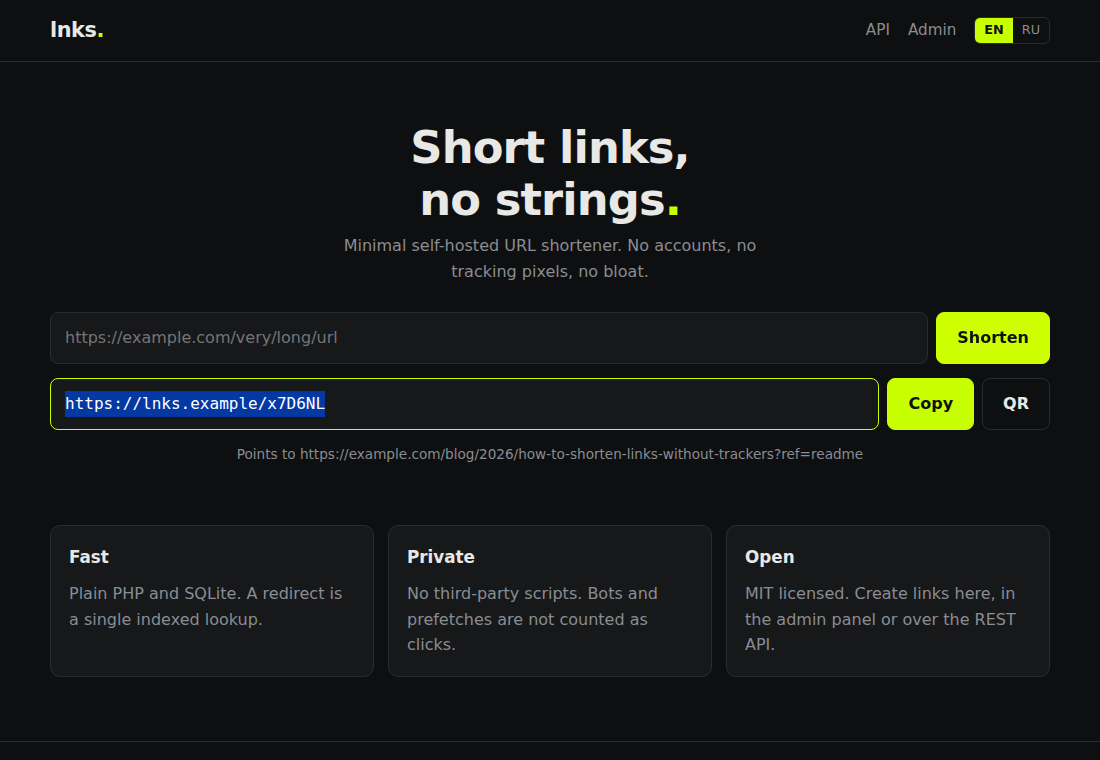
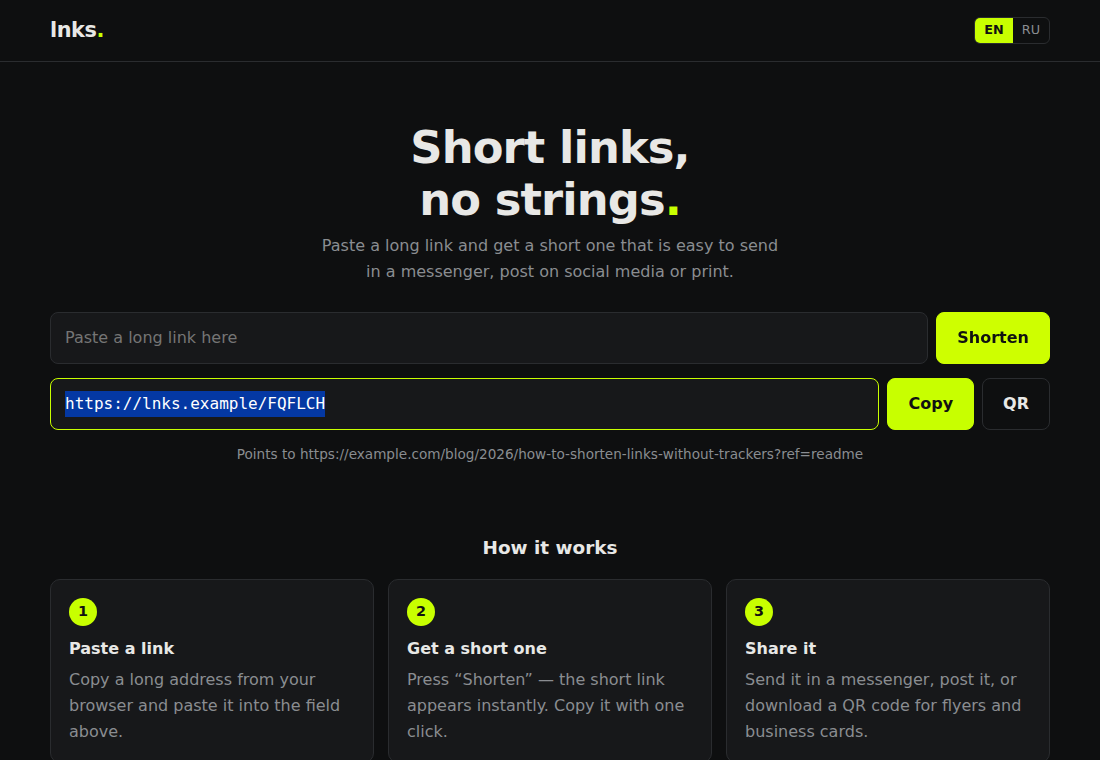
UI polish: visitor-friendly homepage, compact admin row toolbar
Homepage
- No API / admin links in the public header (language switch only); admin
  login moves to a quiet footer link
- Copy written for regular visitors: what the service does, 'paste a long
  link' placeholder, 'How it works' in three steps instead of developer
  feature cards; private-mode notice no longer mentions the API
- Footer support links de-emphasised (muted, accent on hover)

Admin
- Row actions are one row of icon buttons (stats, copy, QR, enable/disable,
  delete) with title + aria-label instead of three stacked text buttons;
  rows are much shorter
- Copy on an icon button keeps the icon and confirms via colour + tooltip
- Mobile cards: code, badge, title and destination form a left-aligned
  header; actions sit in a separated bottom row

Inline SVG icons use presentation attributes only, so the strict CSP stays.
Tests for both changes; README screenshots refreshed.

diff --git a/public/styles.css b/public/styles.css
@@ -69,7 +69,9 @@ ul.plain { list-style: none; margin: 0; padding: 0; display: grid; gap: 6px; }
 .nav a:hover { color: var(--text); text-decoration: none; }
 .site-footer { border-top: 1px solid var(--border); margin-top: 32px; }
 .footer-inner { flex-direction: column; gap: 6px; text-align: center; padding: 22px 20px; }
-.footer-links { display: flex; gap: 6px 18px; flex-wrap: wrap; justify-content: center; font-size: 0.92rem; }
+.footer-links { display: flex; gap: 6px 18px; flex-wrap: wrap; justify-content: center; font-size: 0.88rem; }
+.footer-links a, .site-footer p a { color: var(--muted); }
+.footer-links a:hover, .site-footer p a:hover { color: var(--accent); }
 .footer-inner p { margin: 0; }
 
 /* Language switcher */
@@ -90,6 +92,13 @@ ul.plain { list-style: none; margin: 0; padding: 0; display: grid; gap: 6px; }
 .row-actions { display: flex; align-items: center; gap: 8px; }
 
 .card { background: var(--surface); border: 1px solid var(--border); border-radius: var(--radius); padding: 18px; margin: 0 0 16px; }
+.how { margin-top: 48px; }
+.how h2 { text-align: center; font-size: 1.15rem; margin-bottom: 16px; }
+.steps { list-style: none; margin: 0; padding: 0; display: grid; grid-template-columns: repeat(auto-fit, minmax(220px, 1fr)); gap: 14px; }
+.steps .card { margin: 0; }
+.steps h3 { font-size: 1rem; margin: 10px 0 6px; }
+.steps p { margin: 0; }
+.step-n { display: inline-flex; align-items: center; justify-content: center; width: 28px; height: 28px; border-radius: 50%; background: var(--accent); color: var(--on-accent); font-weight: 700; font-size: 0.9rem; }
 .features { display: grid; grid-template-columns: repeat(auto-fit, minmax(220px, 1fr)); gap: 14px; margin-top: 40px; text-align: left; }
 .features .card { margin: 0; }
 .features p { margin: 0; }
@@ -192,8 +201,20 @@ td.num .n { margin-right: 8px; }
 td.empty { padding: 28px; }
 td.url { max-width: 230px; }
 a.code { font-family: ui-monospace, SFMono-Regular, Menlo, monospace; font-weight: 600; }
-td.actions { width: 1%; }
-td.actions form { display: flex; flex-wrap: wrap; gap: 6px; margin: 0; justify-content: flex-end; min-width: 150px; }
+td.actions { width: 1%; white-space: nowrap; }
+tr.disabled td.actions { opacity: 1; }
+.icon-bar { display: flex; gap: 4px; justify-content: flex-end; margin: 0; }
+.ibtn {
+    display: inline-flex; align-items: center; justify-content: center;
+    width: 34px; height: 34px; padding: 0;
+    background: transparent; border: 1px solid var(--border); border-radius: 8px;
+    color: var(--muted); cursor: pointer;
+}
+.ibtn:hover, .ibtn:focus-visible { color: var(--accent); border-color: var(--accent); text-decoration: none; }
+.ibtn.danger:hover, .ibtn.danger:focus-visible { color: var(--danger); border-color: var(--danger); }
+.ibtn.ok { color: var(--ok); border-color: var(--ok); }
+.ibtn.fail { color: var(--danger); border-color: var(--danger); }
+.ibtn svg { display: block; }
 .plain-table.refs td:last-child { width: 80px; }
 
 /* Charts */
@@ -258,6 +279,13 @@ td.code { font-family: ui-monospace, SFMono-Regular, Menlo, monospace; }
     table.links td { border: 0; padding: 6px 14px; display: flex; justify-content: space-between; gap: 12px; text-align: right; }
     table.links td[data-label]::before { content: attr(data-label); color: var(--muted); text-align: left; flex: none; }
     table.links td.url { max-width: none; }
+    /* Card header: code, badge, title and destination read top-down, left-aligned */
+    table.links td.cell-link, table.links td.cell-dest { display: block; text-align: left; }
+    table.links td.cell-link::before, table.links td.cell-dest::before { display: none; }
+    table.links td.cell-link { padding-top: 10px; }
+    table.links td.cell-link .code { font-size: 1.05rem; margin-right: 6px; }
+    table.links td.cell-dest .ellipsis { max-width: 100%; }
+    table.links td.actions { padding-top: 10px; border-top: 1px solid var(--border); margin-top: 6px; }
     table.links td.actions { justify-content: flex-end; }
     .ellipsis { max-width: 200px; }
     .container { padding: 24px 16px; }

diff --git a/public/app.js b/public/app.js
@@ -126,13 +126,22 @@
     document.addEventListener('click', function (ev) {
         var btn = ev.target.closest('[data-copy]');
         if (btn) {
-            var label = btn.textContent;
+            // Icon buttons keep their icon: feedback goes to colour + tooltip instead of the text
+            var iconOnly = btn.classList.contains('ibtn');
+            var label = iconOnly ? btn.getAttribute('title') : btn.textContent;
+            var show = function (text, cls) {
+                if (iconOnly) { btn.setAttribute('title', text); btn.classList.add(cls); }
+                else btn.textContent = text;
+            };
             copyText(btn.getAttribute('data-copy')).then(function () {
-                btn.textContent = msg.copied || 'Copied!';
+                show(msg.copied || 'Copied!', 'ok');
             }, function () {
-                btn.textContent = msg.copyfail || 'Press Ctrl+C';
+                show(msg.copyfail || 'Press Ctrl+C', 'fail');
             }).then(function () {
-                setTimeout(function () { btn.textContent = label; }, 1500);
+                setTimeout(function () {
+                    if (iconOnly) { btn.setAttribute('title', label); btn.classList.remove('ok', 'fail'); }
+                    else btn.textContent = label;
+                }, 1500);
             });
             return;
         }

diff --git a/lang/ru.php b/lang/ru.php
@@ -5,7 +5,6 @@ return [
     'nav.links'   => 'Ссылки',
     'nav.public'  => 'Публичная страница',
     'nav.logout'  => 'Выйти',
-    'nav.api'     => 'API',
     'nav.admin'   => 'Админка',
     'lang.label'  => 'Язык',
     'footer.support'  => 'Поддержка',
@@ -55,19 +54,13 @@ return [
     'home.title'      => 'Сокращатель ссылок',
     'home.h1_a'       => 'Короткие ссылки,',
     'home.h1_b'       => 'без лишнего',
-    'home.tagline'    => 'Минималистичный self-hosted сервис сокращения ссылок. Без аккаунтов, трекинг-пикселей и лишнего кода.',
-    'home.meta_desc'  => 'Бесплатный self-hosted сервис сокращения ссылок: создавайте короткие ссылки, считайте клики, управляйте через админку или REST API.',
+    'home.tagline' => 'Вставьте длинную ссылку и получите короткую — её удобно отправить в мессенджере, опубликовать в соцсетях или напечатать.',
+    'home.meta_desc' => 'Сокращайте длинные ссылки в один клик. Короткой ссылкой удобно делиться, её легко запомнить и напечатать в виде QR-кода.',
     'home.url_label'  => 'Длинный URL',
-    'home.private'    => 'Этот сервис закрытый. Используйте API или войдите:',
+    'home.private' => 'Сокращение ссылок на этом сайте доступно только администратору.',
     'home.points_to'  => 'Ведёт на {url}',
     'home.disabled'   => 'Публичное сокращение на этом сервисе отключено.',
     'home.rate'       => 'Превышен лимит запросов. Попробуйте позже.',
-    'home.f1_t' => 'Быстро',
-    'home.f1_d' => 'Чистый PHP и SQLite. Редирект — один запрос по индексу.',
-    'home.f2_t' => 'Приватно',
-    'home.f2_d' => 'Никаких сторонних скриптов. Боты и предзагрузка не считаются кликами.',
-    'home.f3_t' => 'Открыто',
-    'home.f3_d' => 'Лицензия MIT. Создавайте ссылки здесь, в админке или через REST API.',
     'nf.title' => 'Не найдено',
     'nf.link'  => 'Такой короткой ссылки нет, либо она отключена.',
     'nf.page'  => 'Страница не найдена.',
@@ -220,4 +213,14 @@ return [
     'csv.err_code' => 'Некорректный код «{code}»: 1–32 символа — буквы, цифры, «-» или «_»; служебные слова запрещены.',
     'csv.err_clicks' => 'Клики должны быть целым числом.',
     'csv.err_status' => 'Статус должен быть «active» или «disabled».',
+    'home.placeholder' => 'Вставьте длинную ссылку',
+    'home.how' => 'Как это работает',
+    'home.s1_t' => 'Вставьте ссылку',
+    'home.s1_d' => 'Скопируйте длинный адрес из браузера и вставьте его в поле выше.',
+    'home.s2_t' => 'Получите короткую',
+    'home.s2_d' => 'Нажмите «Сократить» — короткая ссылка появится сразу. Скопируйте её одним кликом.',
+    'home.s3_t' => 'Делитесь',
+    'home.s3_d' => 'Отправьте в мессенджере, опубликуйте в соцсетях или скачайте QR-код для листовок и визиток.',
+    'footer.admin' => 'Вход для администратора',
+    'btn.stats' => 'Статистика',
 ];

diff --git a/layout.php b/layout.php
@@ -113,10 +113,7 @@ function renderLayout(string $title, string $body, array $o = []): void {
             . '<form method="post" action="/admin.php" class="inline">'
             . '<input type="hidden" name="csrf" value="' . e($o['csrf'] ?? '') . '">'
             . '<button type="submit" name="action" value="logout" class="link">' . te('nav.logout') . '</button></form>';
-    } elseif ($nav === 'public') {
-        $links = '<a href="https://github.com/iDreamSkies/lnks#api" target="_blank" rel="noopener">' . te('nav.api') . '</a>'
-            . '<a href="/admin.php">' . te('nav.admin') . '</a>';
-    }
+    }   // public pages: only the language switch — visitors don't need API or admin links up front
 
     $foot = '';
     foreach (supportLinks() as $l) {
@@ -132,7 +129,8 @@ function renderLayout(string $title, string $body, array $o = []): void {
         . '<footer class="site-footer"><div class="footer-inner">'
         . '<nav class="footer-links" aria-label="' . te('footer.support') . '">' . $foot . '</nav>'
         . '<p class="muted small">lnks v' . e(LNKS_VERSION) . ' · MIT · ' . te('footer.built_by') . ' '
-        . '<a href="https://dreamskies.dev" target="_blank" rel="noopener">DreamSkies</a></p>'
+        . '<a href="https://dreamskies.dev" target="_blank" rel="noopener">DreamSkies</a>'
+        . ($nav === 'public' ? ' · <a href="/admin.php">' . te('footer.admin') . '</a>' : '') . '</p>'
         . '</div></footer>'
         . $scripts
         . '<script src="/public/app.js?v=' . $v . '" defer></script>'
@@ -153,7 +151,24 @@ const QR_SCRIPT = '/public/vendor/qrcode.js';
 
 /** "QR" button; public/app.js opens a dialog with a preview and PNG/SVG downloads. */
 function qrButton(string $url, string $name, string $class = 'btn ghost sm'): string {
-    return '<button type="button" class="' . e($class) . '" data-qr="' . e($url) . '" data-qr-name="' . e($name) . '">' . te('qr.button') . '</button>';
+    $iconOnly = strpos($class, 'ibtn') !== false;
+    return '<button type="button" class="' . e($class) . '" data-qr="' . e($url) . '" data-qr-name="' . e($name) . '"'
+        . ($iconOnly ? ' title="' . te('qr.title') . '" aria-label="' . te('qr.title') . '">' . icon('qr') : '>' . te('qr.button'))
+        . '</button>';
+}
+
+/** Small inline line icons (24×24, stroke = currentColor). Presentation attributes only, so the CSP stays strict. */
+function icon(string $name): string {
+    $paths = [
+        'stats'  => '<path d="M6 20v-8M12 20V5M18 20v-5M3 20h18"/>',
+        'copy'   => '<rect x="9" y="9" width="11" height="11" rx="2"/><path d="M5 15H4.5A1.5 1.5 0 0 1 3 13.5v-9A1.5 1.5 0 0 1 4.5 3h9A1.5 1.5 0 0 1 15 4.5V5"/>',
+        'qr'     => '<rect x="3" y="3" width="7" height="7" rx="1"/><rect x="14" y="3" width="7" height="7" rx="1"/><rect x="3" y="14" width="7" height="7" rx="1"/><path d="M14 14h3v3h-3zM21 14v.01M14 21h.01M17 21h4v-4"/>',
+        'pause'  => '<path d="M9 5v14M15 5v14"/>',
+        'play'   => '<path d="M7 4.5v15l12-7.5z"/>',
+        'trash'  => '<path d="M4 7h16M10 11v6M14 11v6M6 7l1 13h10l1-13M9 7V4h6v3"/>',
+    ];
+    return '<svg viewBox="0 0 24 24" width="18" height="18" fill="none" stroke="currentColor" stroke-width="2" stroke-linecap="round" stroke-linejoin="round" aria-hidden="true" focusable="false">'
+        . ($paths[$name] ?? '') . '</svg>';
 }
 
 /** Inline SVG bar chart (no inline styles so the strict CSP stays intact). */

diff --git a/admin.php b/admin.php
@@ -392,25 +392,26 @@ foreach ($links as $l) {
     $active = (int)$l['status'] === 1;
     $state  = linkState($l);
     $rows .= '<tr' . ($state === 'active' ? '' : ' class="disabled"') . '>
-        <td data-label="' . te('th.link') . '">
+        <td data-label="' . te('th.link') . '" class="cell-link">
             <a href="/admin.php?id=' . (int)$l['id'] . '" class="code">' . e($l['code']) . '</a>
             ' . stateBadge($state) . '
             ' . ($l['title'] ? '<div class="muted small">' . e($l['title']) . '</div>' : '') . '
             ' . limitsLine($l) . '
         </td>
-        <td data-label="' . te('th.dest') . '" class="url"><a href="' . e($l['url']) . '" target="_blank" rel="noopener noreferrer" title="' . e($l['url']) . '">' . e(hostOf($l['url'])) . '</a>
+        <td data-label="' . te('th.dest') . '" class="url cell-dest"><a href="' . e($l['url']) . '" target="_blank" rel="noopener noreferrer" title="' . e($l['url']) . '">' . e(hostOf($l['url'])) . '</a>
             <div class="muted small ellipsis">' . e($l['url']) . '</div></td>
         <td data-label="' . te('th.clicks') . '" class="num"><span class="n">' . (int)$l['clicks_total'] . '</span>' . barsSvg($sparks[(int)$l['id']], 56, 20, 'spark', array_combine(array_keys($sparks[(int)$l['id']]), array_keys($sparks[(int)$l['id']]))) . '</td>
         <td data-label="' . te('th.last') . '" class="muted nowrap">' . e($l['last_click_at'] ?? '—') . '</td>
         <td data-label="' . te('th.created') . '" class="muted nowrap">' . e(substr($l['created_at'], 0, 10)) . '</td>
         <td class="actions">
-            <form method="post">' . csrfField() . '
+            <form method="post" class="icon-bar">' . csrfField() . '
                 <input type="hidden" name="id" value="' . (int)$l['id'] . '">
                 <input type="hidden" name="back" value="' . e($back) . '">
-                <button type="button" class="btn ghost sm" data-copy="' . e($short) . '">' . te('btn.copy') . '</button>
-                ' . qrButton($short, $l['code']) . '
-                <button name="action" value="toggle" class="btn ghost sm">' . ($active ? te('btn.disable') : te('btn.enable')) . '</button>
-                <button name="action" value="delete" class="btn danger sm" data-confirm="' . te('confirm.delete') . '">' . te('btn.delete') . '</button>
+                <a class="ibtn" href="/admin.php?id=' . (int)$l['id'] . '" title="' . te('btn.stats') . '" aria-label="' . te('btn.stats') . '">' . icon('stats') . '</a>
+                <button type="button" class="ibtn" data-copy="' . e($short) . '" title="' . te('btn.copy') . '" aria-label="' . te('btn.copy') . '">' . icon('copy') . '</button>
+                ' . qrButton($short, $l['code'], 'ibtn') . '
+                <button name="action" value="toggle" class="ibtn" title="' . ($active ? te('btn.disable') : te('btn.enable')) . '" aria-label="' . ($active ? te('btn.disable') : te('btn.enable')) . '">' . icon($active ? 'pause' : 'play') . '</button>
+                <button name="action" value="delete" class="ibtn danger" data-confirm="' . te('confirm.delete') . '" title="' . te('btn.delete') . '" aria-label="' . te('btn.delete') . '">' . icon('trash') . '</button>
             </form>
         </td>
     </tr>';

diff --git a/lang/en.php b/lang/en.php
@@ -5,7 +5,6 @@ return [
     'nav.links'   => 'Links',
     'nav.public'  => 'Public page',
     'nav.logout'  => 'Log out',
-    'nav.api'     => 'API',
     'nav.admin'   => 'Admin',
     'lang.label'  => 'Language',
     'footer.support'  => 'Support',
@@ -55,19 +54,13 @@ return [
     'home.title'      => 'URL shortener',
     'home.h1_a'       => 'Short links,',
     'home.h1_b'       => 'no strings',
-    'home.tagline'    => 'Minimal self-hosted URL shortener. No accounts, no tracking pixels, no bloat.',
-    'home.meta_desc'  => 'Free self-hosted URL shortener: create short links, count clicks, manage everything from a simple admin panel or REST API.',
+    'home.tagline' => 'Paste a long link and get a short one that is easy to send in a messenger, post on social media or print.',
+    'home.meta_desc' => 'Shorten long links in one click. A short link is easy to share, remember and print as a QR code.',
     'home.url_label'  => 'Long URL',
-    'home.private'    => 'This instance is private. Use the API or sign in:',
+    'home.private' => 'Link shortening on this site is available to its administrator only.',
     'home.points_to'  => 'Points to {url}',
     'home.disabled'   => 'Public shortening is disabled on this instance.',
     'home.rate'       => 'Rate limit reached. Try again later.',
-    'home.f1_t' => 'Fast',
-    'home.f1_d' => 'Plain PHP and SQLite. A redirect is a single indexed lookup.',
-    'home.f2_t' => 'Private',
-    'home.f2_d' => 'No third-party scripts. Bots and prefetches are not counted as clicks.',
-    'home.f3_t' => 'Open',
-    'home.f3_d' => 'MIT licensed. Create links here, in the admin panel or over the REST API.',
     'nf.title' => 'Not found',
     'nf.link'  => 'This short link does not exist or was disabled.',
     'nf.page'  => 'Page not found.',
@@ -220,4 +213,14 @@ return [
     'csv.err_code' => 'Invalid code "{code}": use 1–32 letters, digits, "-" or "_"; reserved words are not allowed.',
     'csv.err_clicks' => 'Clicks must be a whole number.',
     'csv.err_status' => 'Status must be "active" or "disabled".',
+    'home.placeholder' => 'Paste a long link here',
+    'home.how' => 'How it works',
+    'home.s1_t' => 'Paste a link',
+    'home.s1_d' => 'Copy a long address from your browser and paste it into the field above.',
+    'home.s2_t' => 'Get a short one',
+    'home.s2_d' => 'Press “Shorten” — the short link appears instantly. Copy it with one click.',
+    'home.s3_t' => 'Share it',
+    'home.s3_d' => 'Send it in a messenger, post it, or download a QR code for flyers and business cards.',
+    'footer.admin' => 'Admin login',
+    'btn.stats' => 'Statistics',
 ];

diff --git a/index.php b/index.php
@@ -80,11 +80,11 @@ if ($canShorten) {
     <form method="post" class="shorten" action="/">
         ' . csrfField() . '
         <label class="sr-only" for="url">' . te('home.url_label') . '</label>
-        <input type="url" id="url" name="url" placeholder="https://example.com/very/long/url" required maxlength="2048" autofocus>
+        <input type="url" id="url" name="url" placeholder="' . te('home.placeholder') . '" required maxlength="2048" autofocus>
         <button type="submit" class="btn">' . te('btn.shorten') . '</button>
     </form>';
 } else {
-    $formHtml = '<p class="notice">' . te('home.private') . ' <a href="/admin.php">' . te('nav.admin') . '</a></p>';
+    $formHtml = '<p class="notice">' . te('home.private') . '</p>';
 }
 
 $resultHtml = '';
@@ -106,10 +106,13 @@ renderLayout(t('home.title'), '
         <p class="tagline">' . te('home.tagline') . '</p>
         ' . $formHtml . $resultHtml . '
     </section>
-    <section class="features">
-        <div class="card"><h2>' . te('home.f1_t') . '</h2><p class="muted">' . te('home.f1_d') . '</p></div>
-        <div class="card"><h2>' . te('home.f2_t') . '</h2><p class="muted">' . te('home.f2_d') . '</p></div>
-        <div class="card"><h2>' . te('home.f3_t') . '</h2><p class="muted">' . te('home.f3_d') . '</p></div>
+    <section class="how" aria-labelledby="how-title">
+        <h2 id="how-title">' . te('home.how') . '</h2>
+        <ol class="steps">
+            <li class="card"><span class="step-n" aria-hidden="true">1</span><h3>' . te('home.s1_t') . '</h3><p class="muted">' . te('home.s1_d') . '</p></li>
+            <li class="card"><span class="step-n" aria-hidden="true">2</span><h3>' . te('home.s2_t') . '</h3><p class="muted">' . te('home.s2_d') . '</p></li>
+            <li class="card"><span class="step-n" aria-hidden="true">3</span><h3>' . te('home.s3_t') . '</h3><p class="muted">' . te('home.s3_d') . '</p></li>
+        </ol>
     </section>
 ', [
     'nav'         => 'public',

diff --git a/tests/test_http.php b/tests/test_http.php
@@ -16,6 +16,25 @@ test('http: homepage renders with security headers', function () {
     eq('DENY', $r->header('X-Frame-Options'));
 });
 
+test('http: homepage speaks to visitors — no API link, how-it-works steps, admin login in the footer', function () {
+    $r = (new Client())->get('/?lang=en');
+    notContains('#api', $r->body);
+    notContains('REST API', $r->body);
+    contains('How it works', $r->body);
+    contains('placeholder="Paste a long link here"', $r->body);
+    contains('<a href="/admin.php">Admin login</a>', $r->body);
+});
+
+test('http: admin rows use a single icon toolbar with accessible labels', function () {
+    api('POST', '/api.php', ['url' => 'https://example.com/icons', 'title' => 'Icon row']);
+    $page = (new Client())->login()->get('/admin.php?q=Icon+row');
+    contains('class="icon-bar"', $page->body);
+    foreach (['Statistics', 'Copy', 'QR code', 'Disable', 'Delete'] as $label) {
+        contains('aria-label="' . $label . '"', $page->body, $label);
+    }
+    contains('<svg viewBox="0 0 24 24"', $page->body);
+});
+
 test('http: public form creates a link (CSRF required)', function () {
     $c = new Client();
     $t = $c->get('/')->csrf();
